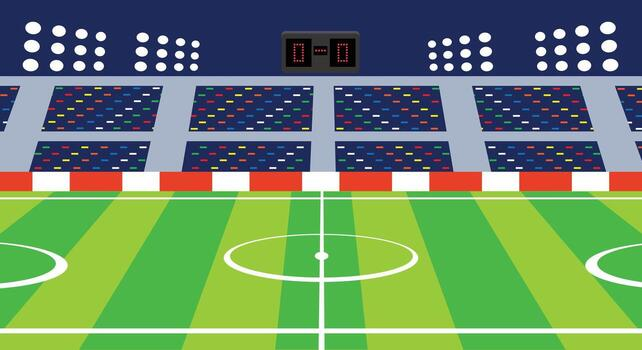
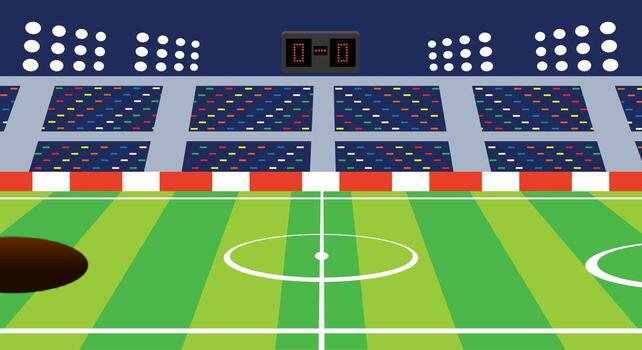
Added a little wind-up animation before throwing

Changed region(s): [[0.0, 0.6571, 0.1558, 0.8571]]

diff --git a/visualization/renderer.py b/visualization/renderer.py
@@ -1,4 +1,5 @@
 import pygame
+import math
 
 from physics.player_physics import create_space, create_player, create_ground, apply_input, step
 from physics.throw import apply_throw
@@ -25,23 +26,17 @@ TITLE_FONT = pygame.font.SysFont("Arial", 28, bold=True)
 def show_start_screen(screen):
     start_time = pygame.time.get_ticks()
     duration = 2500
-
     while pygame.time.get_ticks() - start_time < duration:
         for event in pygame.event.get():
             if event.type == pygame.QUIT:
                 pygame.quit()
                 return False
-
         screen.fill((30, 30, 30))
-
         title = TITLE_FONT.render("Discus Throwing Simulator", True, "white")
         subtitle = UI_FONT.render("Loading...", True, "white")
-
         screen.blit(title, (WIDTH//2 - title.get_width()//2, HEIGHT//2 - 60))
         screen.blit(subtitle, (WIDTH//2 - subtitle.get_width()//2, HEIGHT//2 + 20))
-
         pygame.display.flip()
-
     return True
 
 
@@ -50,9 +45,6 @@ def render_game():
     panel_height = 260
     panel_x = WIDTH - panel_width - 20
     panel_y = 20
-
-    GROUND_Y = 600
-
     PIXELS_PER_METER = 17.5
 
     angle_slider = Slider(panel_x + 20, panel_y + 80, 260, 10, 80, 45, "θ (Angle)", "°")
@@ -60,155 +52,120 @@ def render_game():
     height_slider = Slider(panel_x + 20, panel_y + 200, 260, 120, 220, 180, "h (Height)", " cm")
 
     clock = pygame.time.Clock()
-
-    if not show_start_screen(screen):
-        return
+    if not show_start_screen(screen): return
 
     running = True
-
     space = create_space()
     body = create_player(space)
     create_ground(space, WIDTH)
 
-    trajectory_points = []
-    landing_point = None
+    state = "idle" 
+    anim_timer = 0.0
+    WINDUP_DURATION = 0.4 
+    
+    show_ui_trajectory = True
+    frozen_points = []
+    saved_landing = None
 
     while running:
         dt = clock.tick(60) / 1000
 
         for event in pygame.event.get():
-            if event.type == pygame.QUIT:
-                running = False
+            if event.type == pygame.QUIT: running = False
 
-            angle_slider.handle_event(event)
-            velocity_slider.handle_event(event)
-            height_slider.handle_event(event)
+            if state == "idle":
+                angle_slider.handle_event(event)
+                velocity_slider.handle_event(event)
+                height_slider.handle_event(event)
 
             if event.type == pygame.KEYDOWN:
-                if event.key == pygame.K_SPACE:
-
-                    hand_pos = draw_stickman(
-                        screen,
-                        body.position,
-                        height_slider.value
-                    )
-
-                    apply_throw(
-                        body,
-                        angle_slider.value,
-                        velocity_slider.value,
-                        hand_pos
-                    )
-
-                    trajectory_points, landing_point = compute_trajectory(
-                        hand_pos[0],
-                        hand_pos[1],
-                        angle_slider.value,
-                        velocity_slider.value,
+                if event.key == pygame.K_SPACE and state == "idle":
+                    temp_hand = draw_stickman(screen, body.position, height_slider.value, 0.0)
+                    frozen_points, saved_landing = compute_trajectory(
+                        temp_hand[0], temp_hand[1],
+                        angle_slider.value, velocity_slider.value,
                         PIXELS_PER_METER
                     )
+                    
+                    state = "windup"
+                    anim_timer = 0.0
+                    show_ui_trajectory = False
 
-        keys = pygame.key.get_pressed()
-        apply_input(body, (keys[pygame.K_a], keys[pygame.K_d]))
+        if state == "windup":
+            anim_timer += dt
+            if anim_timer >= WINDUP_DURATION:
+                state = "throwing"
+                release_hand = draw_stickman(screen, body.position, height_slider.value, 1.0)
+                apply_throw(body, angle_slider.value, velocity_slider.value, release_hand)
+
+        if state == "throwing":
+            if body.position.y >= 600:
+                body.velocity = (0, 0)
+                body.position = (body.position.x, 600)
+                state = "idle"
+                show_ui_trajectory = True
+
+        if state == "idle":
+            keys = pygame.key.get_pressed()
+            apply_input(body, (keys[pygame.K_a], keys[pygame.K_d]))
 
         step(space, dt)
 
         screen.blit(background, (0, 0))
 
-        hand_pos = draw_stickman(
-            screen,
-            body.position,
-            height_slider.value
-        )
+        current_swing = 0.0
+        if state == "windup":
+            current_swing = anim_timer / WINDUP_DURATION
+        elif state == "throwing":
+            current_swing = 1.0 
 
-        trajectory_points, landing_point = compute_trajectory(
-            hand_pos[0],
-            hand_pos[1],
-            angle_slider.value,
-            velocity_slider.value,
-            PIXELS_PER_METER
-        )
+        hand_pos = draw_stickman(screen, body.position, height_slider.value, current_swing)
 
-        for point in trajectory_points:
-            pygame.draw.circle(screen, (255, 255, 0), point, 2)
+        if show_ui_trajectory:
+            pts, landing = compute_trajectory(hand_pos[0], hand_pos[1], angle_slider.value, velocity_slider.value, PIXELS_PER_METER)
+            for p in pts: pygame.draw.circle(screen, (255, 255, 0), p, 2)
+            if landing:
+                pygame.draw.circle(screen, (255, 0, 0), (int(landing[0]), int(landing[1])), 6)
+                dist = (landing[0] - hand_pos[0]) / PIXELS_PER_METER
+                screen.blit(UI_FONT.render(f"Predicted: {dist:.2f} m", True, (255, 200, 0)), (20, HEIGHT - 40))
+        else:
+            if saved_landing:
+                pygame.draw.circle(screen, (150, 0, 0), (int(saved_landing[0]), int(saved_landing[1])), 6)
 
-        if landing_point:
-            pygame.draw.circle(
-                screen,
-                (255, 0, 0),
-                (int(landing_point[0]), int(landing_point[1])),
-                6
-            )
-
-            distance_px = landing_point[0] - hand_pos[0]
-            distance_m = distance_px / PIXELS_PER_METER
-
-            text = UI_FONT.render(
-                f"Distance: {distance_m:.2f} m",
-                True,
-                (255, 200, 0)
-            )
-            screen.blit(text, (20, HEIGHT - 40))
-
-        draw_slider_panel(
-            screen,
-            panel_x, panel_y,
-            panel_width, panel_height,
-            "Parameters",
-            [angle_slider, velocity_slider, height_slider],
-            UI_FONT,
-            TITLE_FONT
-        )
-
-        draw_formula_panel(
-            screen,
-            20, 20,
-            420, 160,
-            angle_slider.value,
-            velocity_slider.value,
-            height_slider.value,
-            UI_FONT,
-            TITLE_FONT
-        )
-
+        draw_slider_panel(screen, panel_x, panel_y, panel_width, panel_height, "Parameters", [angle_slider, velocity_slider, height_slider], UI_FONT, TITLE_FONT)
+        draw_formula_panel(screen, 20, 20, 420, 160, angle_slider.value, velocity_slider.value, height_slider.value, UI_FONT, TITLE_FONT)
         pygame.display.flip()
 
     pygame.quit()
 
 
-def draw_stickman(screen, pos, height_cm):
-    x = int(pos.x)
-    ground_y = int(pos.y)
-
-    reference_height = 180
-    scale = height_cm / reference_height
-
+def draw_stickman(screen, pos, height_cm, swing_factor=0.0):
+    x, ground_y = int(pos.x), int(pos.y)
+    scale = height_cm / 180
+    
+    lean = int(10 * swing_factor * scale)
     body_height = int(120 * scale)
-
     head_y = ground_y - body_height
     head_radius = int(10 * scale)
 
-    pygame.draw.circle(screen, "black", (x, head_y), head_radius)
+    pygame.draw.circle(screen, "black", (x + lean, head_y), head_radius)
+    body_top, body_bottom = head_y + head_radius, ground_y - int(40 * scale)
+    pygame.draw.line(screen, "black", (x + lean, body_top), (x, body_bottom), 3)
 
-    body_top = head_y + head_radius
-    body_bottom = ground_y - int(40 * scale)
+    arm_shoulder_y = body_top + int(30 * scale)
+    
+    reach_x = -25 + (65 * swing_factor)
+    reach_y = 0 - (30 * swing_factor)
+    
+    left_hand = (x + int(reach_x * scale) + lean, arm_shoulder_y + int(reach_y * scale))
+    right_hand = (x + int(25 * scale), arm_shoulder_y + int(10 * scale))
 
-    pygame.draw.line(screen, "black", (x, body_top), (x, body_bottom), 3)
+    pygame.draw.line(screen, "black", (x + lean, arm_shoulder_y), left_hand, 3)
+    pygame.draw.line(screen, "black", (x + lean, arm_shoulder_y), right_hand, 3)
 
-    arm_y = body_top + int(30 * scale)
-    left_hand = (x - int(25 * scale), arm_y)
-    right_hand = (x + int(25 * scale), arm_y)
-
-    pygame.draw.line(screen, "black", left_hand, right_hand, 3)
-
-    pygame.draw.line(screen, "black",
-                     (x, body_bottom),
-                     (x - int(20 * scale), ground_y), 3)
-
-    pygame.draw.line(screen, "black",
-                     (x, body_bottom),
-                     (x + int(20 * scale), ground_y), 3)
-
+    pygame.draw.line(screen, "black", (x, body_bottom), (x - int(20 * scale), ground_y), 3)
+    pygame.draw.line(screen, "black", (x, body_bottom), (x + int(20 * scale), ground_y), 3)
+    
     pygame.draw.circle(screen, (255, 0, 0), left_hand, int(6 * scale))
 
     return left_hand
